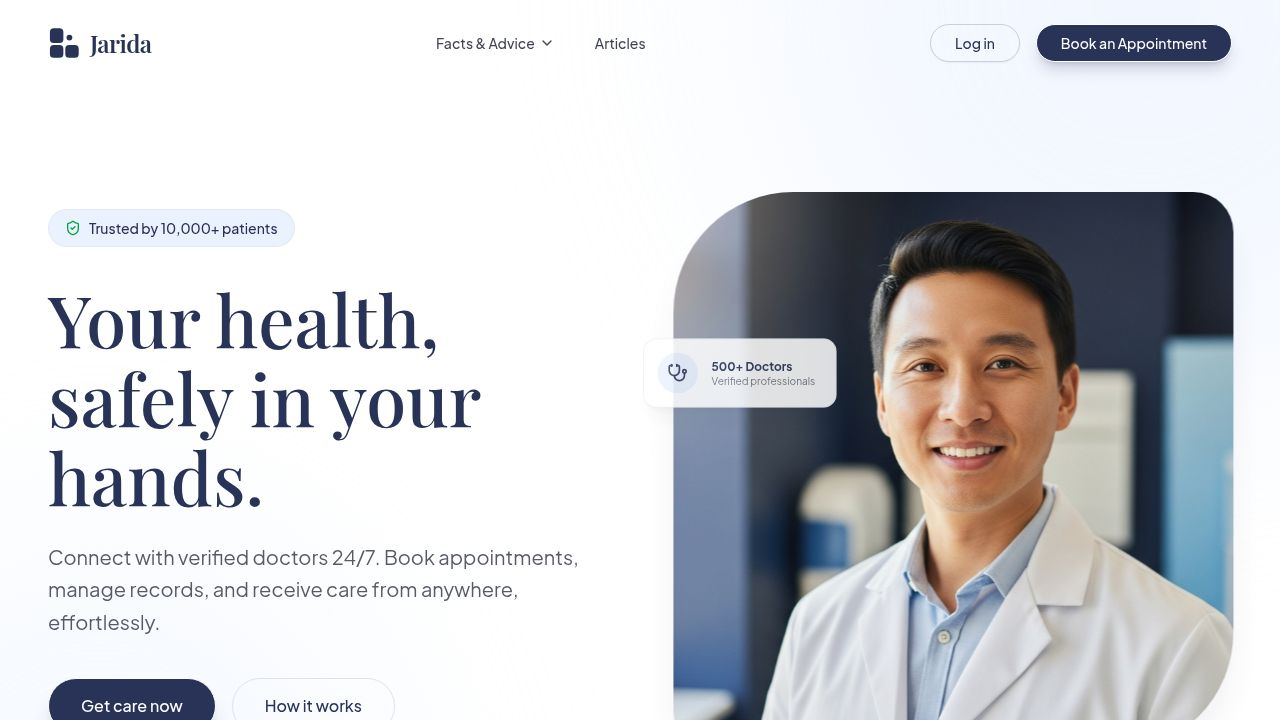
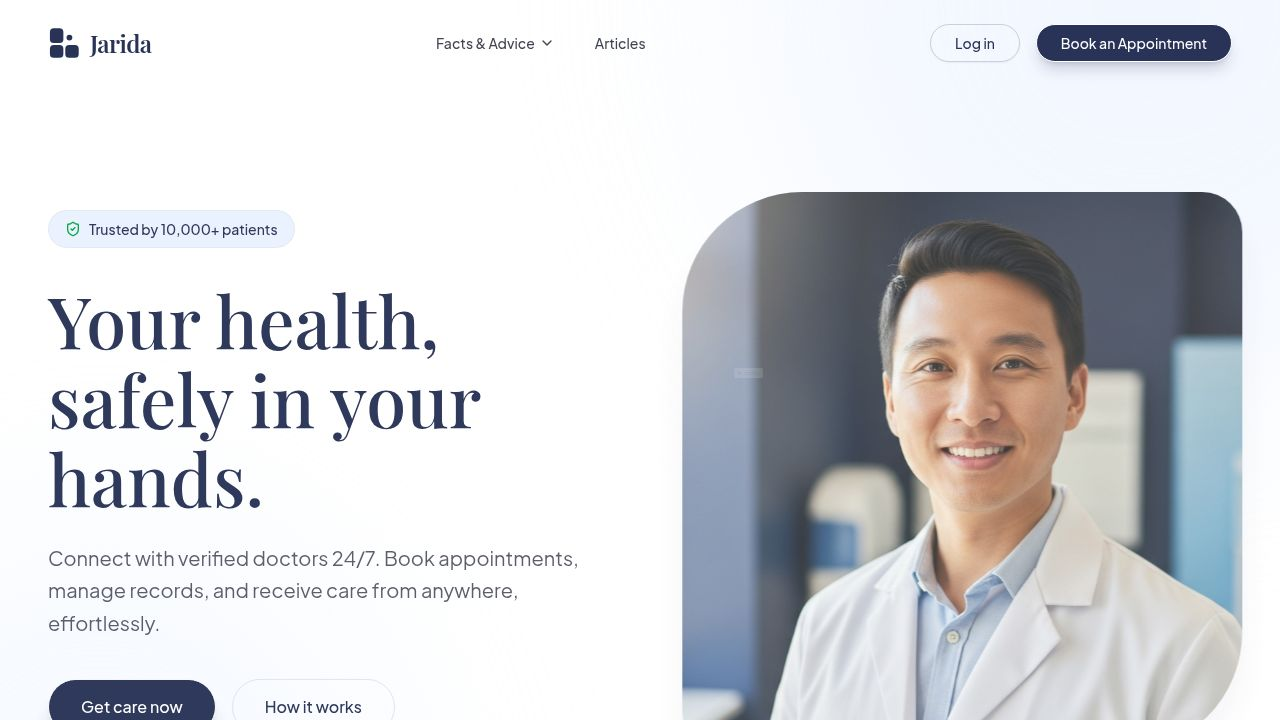
Add dedicated per-question pages for common patient questions
Task #30: Each of the 146 patient answers now has its own indexable page
at /common-questions/:slug, mirroring the per-topic /facts/:slug pattern.

Changes:
- data/patient-answers.ts: added findPatientAnswerBySlug(slug) helper that
  returns the matching answer and its list index (or undefined for 404).
- pages/patient-answer.tsx (new): single-question page rendering "What it
  may mean", "What you can do", "When to seek care", the emergency warning,
  only the references cited by that question, the standard disclaimer, a
  "Book an appointment" CTA, and a "More common questions" related grid.
  Renders NotFound for unknown slugs. Includes QAPage JSON-LD and SEO
  title/description via useSeo.
- App.tsx: registered route /common-questions/:slug -> PatientAnswerDetail
  (placed before /facts routes; no conflict).
- pages/common-questions.tsx: each expanded accordion entry now has an
  "Open full page" link to its dedicated page (inline expand retained).

Verification: tsc --noEmit passes; jarida web workflow runs clean;
check-links workflow passes; screenshots confirm a valid slug renders and
an unknown slug shows the 404 page.

Notes: standalone `vite build` requires PORT env and still failed to load
config in this env, but the dev workflow and typecheck both pass, so this
is an env quirk unrelated to the change.

Replit-Task-Id: a3c1d24d-886d-4c9c-b838-6a4e78a0d470

diff --git a/artifacts/jarida/src/pages/patient-answer.tsx b/artifacts/jarida/src/pages/patient-answer.tsx
@@ -1,0 +1,228 @@
+import { useEffect, useMemo } from "react";
+import { Link, useParams } from "wouter";
+import {
+  ArrowLeft,
+  ArrowRight,
+  ChevronRight,
+  AlertTriangle,
+  Brain,
+  HeartPulse,
+  Stethoscope,
+} from "lucide-react";
+import { SiteHeader } from "@/components/site-header";
+import { SiteFooter } from "@/components/site-footer";
+import NotFound from "@/pages/not-found";
+import { useSeo } from "@/lib/seo";
+import {
+  PATIENT_ANSWERS,
+  PATIENT_ANSWER_REFERENCES,
+  EMERGENCY_WARNING,
+  PATIENT_ANSWERS_DISCLAIMER,
+  findPatientAnswerBySlug,
+} from "@/data/patient-answers";
+
+export default function PatientAnswerDetail() {
+  const { slug } = useParams();
+  useEffect(() => {
+    window.scrollTo(0, 0);
+  }, [slug]);
+
+  const result = slug ? findPatientAnswerBySlug(slug) : undefined;
+  const answer = result?.answer;
+
+  const jsonLd = useMemo(() => {
+    if (!answer) return undefined;
+    return {
+      "@context": "https://schema.org",
+      "@type": "QAPage",
+      mainEntity: {
+        "@type": "Question",
+        name: answer.title,
+        acceptedAnswer: {
+          "@type": "Answer",
+          text: `What it may mean: ${answer.meaning} What you can do: ${answer.selfCare} When to seek care: ${answer.seekCare}`,
+        },
+      },
+    };
+  }, [answer]);
+
+  useSeo({
+    title: answer
+      ? `${answer.title} — what it means, self-care and when to seek care | Jarida`
+      : "Not found | Jarida",
+    description: answer
+      ? `${answer.meaning} ${answer.seekCare}`.slice(0, 300)
+      : "The page you are looking for could not be found.",
+    jsonLd,
+  });
+
+  if (!result || !answer) return <NotFound />;
+
+  const cited = answer.references
+    .map((refNum) => ({ refNum, text: PATIENT_ANSWER_REFERENCES[refNum - 1] }))
+    .filter((r) => Boolean(r.text));
+
+  const related = PATIENT_ANSWERS.filter((a) => a.slug !== answer.slug).slice(
+    Math.max(0, result.index - 1),
+    Math.max(0, result.index - 1) + 3,
+  );
+
+  return (
+    <div className="min-h-screen bg-white font-sans text-foreground">
+      <SiteHeader />
+
+      <article className="relative pt-36 md:pt-44 pb-8 overflow-hidden">
+        <div className="absolute top-0 right-0 w-[600px] h-[600px] bg-secondary rounded-full blur-[120px] -translate-y-1/2 translate-x-1/3 opacity-50 pointer-events-none" />
+        <div className="container mx-auto px-6 md:px-12 relative z-10 max-w-3xl">
+          <Link
+            href="/common-questions"
+            className="inline-flex items-center gap-2 text-sm font-medium text-muted-foreground hover:text-primary transition-colors mb-8"
+          >
+            <ArrowLeft className="w-4 h-4" />
+            Back to common questions
+          </Link>
+          <p className="text-sm font-medium uppercase tracking-[0.18em] text-primary/60 mb-4">
+            Common patient question
+          </p>
+          <h1 className="text-4xl md:text-5xl font-serif font-medium text-primary leading-[1.1] mb-6">
+            {answer.title}
+          </h1>
+          <p className="text-lg md:text-xl text-foreground/70 leading-relaxed">
+            {answer.meaning}
+          </p>
+        </div>
+      </article>
+
+      <div className="container mx-auto px-6 md:px-12 max-w-3xl pb-20">
+        <Section
+          icon={<Brain className="w-5 h-5" />}
+          title="What it may mean"
+          body={answer.meaning}
+        />
+        <Section
+          icon={<HeartPulse className="w-5 h-5" />}
+          title="What you can do"
+          body={answer.selfCare}
+        />
+        <Section
+          icon={<Stethoscope className="w-5 h-5" />}
+          title="When to seek care"
+          body={answer.seekCare}
+        />
+
+        {/* EMERGENCY WARNING */}
+        <div className="mt-10 rounded-2xl border border-red-200 bg-red-50/70 p-6">
+          <div className="flex items-start gap-3">
+            <AlertTriangle className="w-5 h-5 shrink-0 text-red-600 mt-0.5" />
+            <div>
+              <p className="text-sm font-semibold uppercase tracking-[0.12em] text-red-700 mb-1.5">
+                Emergency warning
+              </p>
+              <p className="text-foreground/80 leading-relaxed">
+                {EMERGENCY_WARNING}
+              </p>
+            </div>
+          </div>
+        </div>
+
+        {/* REFERENCES */}
+        {cited.length > 0 && (
+          <div className="mt-10">
+            <h2 className="text-2xl font-serif font-medium text-primary mb-5">
+              References
+            </h2>
+            <ol className="space-y-4">
+              {cited.map(({ refNum, text }) => (
+                <li key={refNum} className="flex gap-4">
+                  <span className="shrink-0 text-sm font-semibold text-primary/50 tabular-nums w-8">
+                    {refNum}.
+                  </span>
+                  <span className="text-sm text-foreground/75 leading-relaxed">
+                    {text}
+                  </span>
+                </li>
+              ))}
+            </ol>
+          </div>
+        )}
+
+        {/* DISCLAIMER */}
+        <p className="mt-8 text-sm text-foreground/60 leading-relaxed">
+          {PATIENT_ANSWERS_DISCLAIMER}
+        </p>
+
+        <div className="mt-12 rounded-3xl bg-secondary/50 border border-primary/5 p-8">
+          <h3 className="text-xl font-serif font-medium text-primary mb-3">
+            Speak to a doctor on Jarida
+          </h3>
+          <p className="text-foreground/70 leading-relaxed mb-6">
+            If you would like reassurance or your symptoms are not improving, you
+            can connect with a verified doctor from home, at a time that suits
+            you.
+          </p>
+          <Link
+            href="/"
+            className="inline-flex items-center gap-2 rounded-full px-6 py-3 bg-primary text-white font-medium hover:bg-primary/90 transition-all hover:-translate-y-0.5"
+          >
+            Book an appointment
+            <ArrowRight className="w-4 h-4" />
+          </Link>
+        </div>
+      </div>
+
+      {related.length > 0 && (
+        <section className="pb-24">
+          <div className="container mx-auto px-6 md:px-12">
+            <h2 className="text-2xl font-serif font-medium text-primary mb-8">
+              More common questions
+            </h2>
+            <div className="grid sm:grid-cols-2 lg:grid-cols-3 gap-6">
+              {related.map((a) => (
+                <Link
+                  key={a.slug}
+                  href={`/common-questions/${a.slug}`}
+                  className="group bg-white rounded-3xl p-7 border border-border/60 hover:border-primary/20 hover:shadow-xl hover:shadow-primary/5 transition-all duration-300 flex flex-col"
+                >
+                  <h3 className="text-lg font-semibold text-primary mb-3">
+                    {a.title}
+                  </h3>
+                  <p className="text-foreground/70 leading-relaxed text-sm mb-6 flex-1">
+                    {a.meaning}
+                  </p>
+                  <span className="inline-flex items-center gap-1 text-sm font-medium text-primary">
+                    Read more
+                    <ChevronRight className="w-4 h-4 group-hover:translate-x-1 transition-transform" />
+                  </span>
+                </Link>
+              ))}
+            </div>
+          </div>
+        </section>
+      )}
+
+      <SiteFooter />
+    </div>
+  );
+}
+
+function Section({
+  icon,
+  title,
+  body,
+}: {
+  icon: React.ReactNode;
+  title: string;
+  body: string;
+}) {
+  return (
+    <div className="mb-10">
+      <div className="flex items-center gap-3 mb-4">
+        <span className="inline-flex h-10 w-10 items-center justify-center rounded-xl bg-secondary text-primary">
+          {icon}
+        </span>
+        <h2 className="text-2xl font-serif font-medium text-primary">{title}</h2>
+      </div>
+      <p className="text-foreground/80 leading-relaxed text-lg">{body}</p>
+    </div>
+  );
+}

diff --git a/artifacts/jarida/src/pages/common-questions.tsx b/artifacts/jarida/src/pages/common-questions.tsx
@@ -1,5 +1,12 @@
 import { useMemo, useState } from "react";
-import { ChevronDown, Search, AlertTriangle, ShieldCheck } from "lucide-react";
+import { Link } from "wouter";
+import {
+  ChevronDown,
+  ChevronRight,
+  Search,
+  AlertTriangle,
+  ShieldCheck,
+} from "lucide-react";
 import { SiteHeader } from "@/components/site-header";
 import { SiteFooter } from "@/components/site-footer";
 import { useSeo } from "@/lib/seo";
@@ -200,6 +207,13 @@ export default function CommonQuestions() {
                               ))}
                             </div>
                           )}
+                          <Link
+                            href={`/common-questions/${item.slug}`}
+                            className="inline-flex items-center gap-1.5 pt-1 text-sm font-medium text-primary hover:gap-2.5 transition-all"
+                          >
+                            Open full page
+                            <ChevronRight className="w-4 h-4" />
+                          </Link>
                         </div>
                       )}
                     </div>

diff --git a/artifacts/jarida/src/data/patient-answers.ts b/artifacts/jarida/src/data/patient-answers.ts
@@ -1414,3 +1414,15 @@ export const PATIENT_ANSWER_REFERENCES: string[] = [
   "Horne GO, Mole RH. Miliaria. Transactions of the Royal Society of Tropical Medicine and Hygiene. 1951;44(4):465-471.",
   "Guerra KC, Toncar A, Krishnamurthy K. Miliaria. StatPearls. 2024.",
 ];
+
+/**
+ * Resolves a patient answer (and its position in the list) by URL slug.
+ * Returns undefined when no answer matches, so callers can render a 404.
+ */
+export function findPatientAnswerBySlug(slug: string):
+  | { answer: PatientAnswer; index: number }
+  | undefined {
+  const index = PATIENT_ANSWERS.findIndex((item) => item.slug === slug);
+  if (index === -1) return undefined;
+  return { answer: PATIENT_ANSWERS[index], index };
+}

diff --git a/artifacts/jarida/src/App.tsx b/artifacts/jarida/src/App.tsx
@@ -8,6 +8,7 @@ import Privacy from "@/pages/privacy";
 import Terms from "@/pages/terms";
 import Facts from "@/pages/facts";
 import CommonQuestions from "@/pages/common-questions";
+import PatientAnswerDetail from "@/pages/patient-answer";
 import Category from "@/pages/category";
 import Articles from "@/pages/articles";
 import { FactDetail, ArticleDetail } from "@/pages/content-detail";
@@ -20,6 +21,7 @@ function Router() {
       <Route path="/" component={Home} />
       <Route path="/facts" component={Facts} />
       <Route path="/common-questions" component={CommonQuestions} />
+      <Route path="/common-questions/:slug" component={PatientAnswerDetail} />
       <Route path="/facts/category/:id" component={Category} />
       <Route path="/facts/:slug" component={FactDetail} />
       <Route path="/articles" component={Articles} />